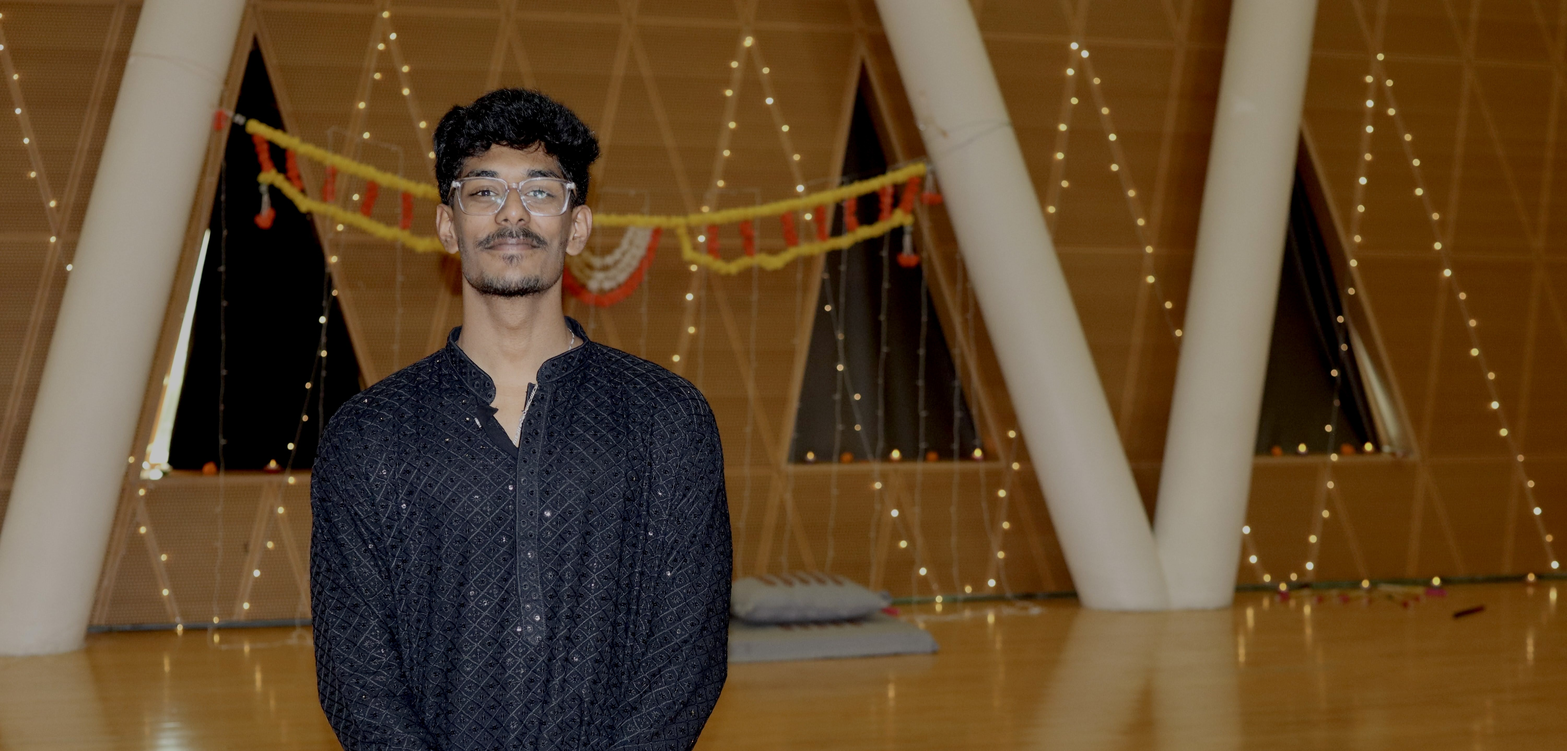
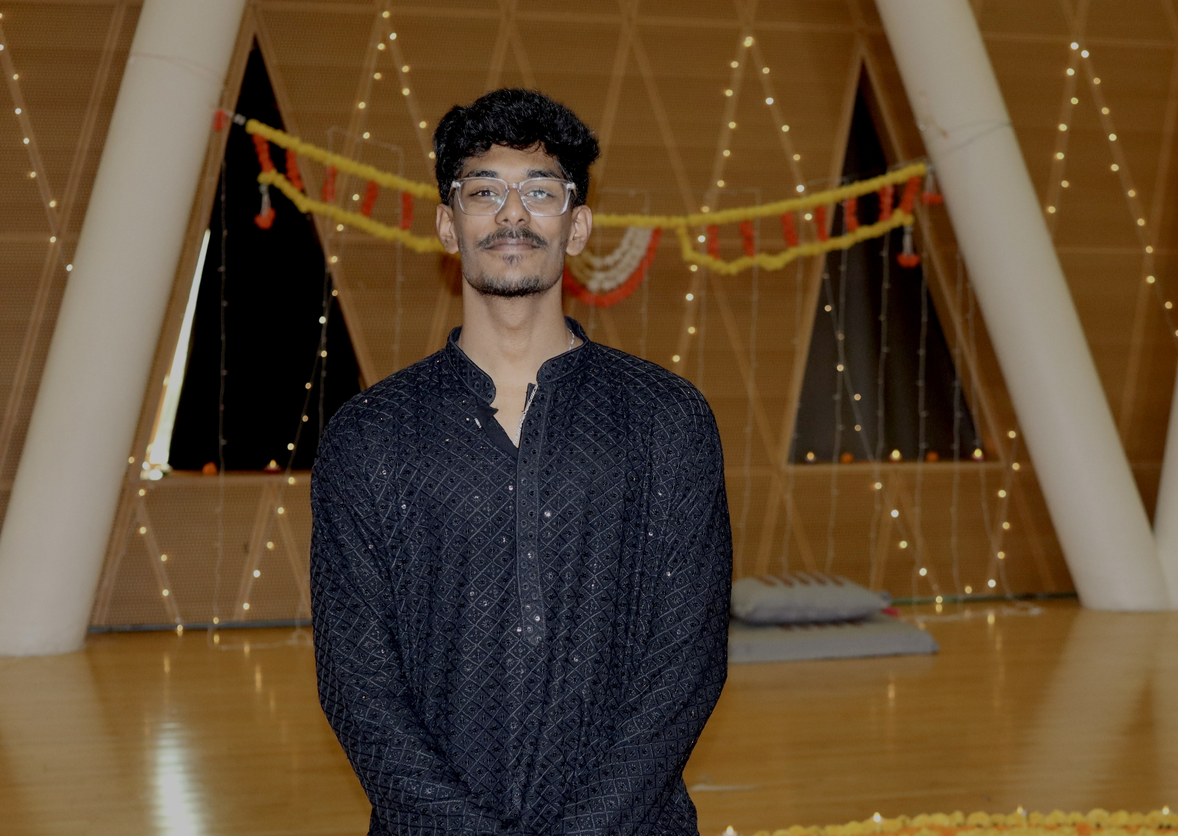
Update

diff --git a/index.html b/index.html
@@ -1,4 +1,4 @@
 ---
 layout: home
-background: '/img/IMG_2317_Original (1) (1).jpg'
+background: '/img/IMG_2317_Original (1).jpg'
 ---
